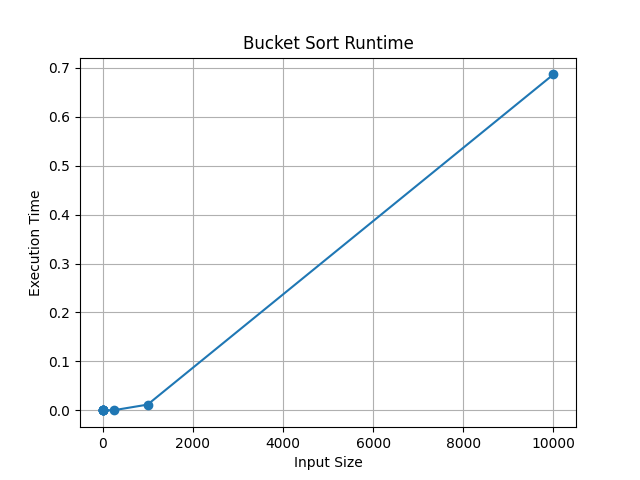
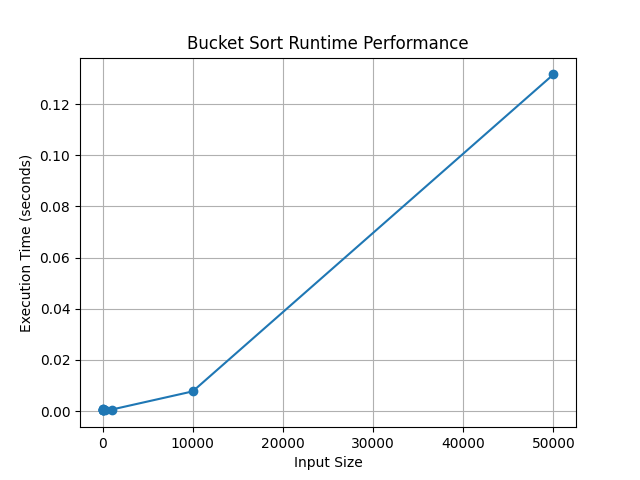
Optimize bucket sort: increase buckets to 1000, reduce test sizes for faster execution, update results and charts

diff --git a/src/experiment_runner.py b/src/experiment_runner.py
@@ -5,7 +5,7 @@ from data.dataset_generator import generate_dataset
 from src.bucket_sort import bucket_sort
 import src.insertion_sort as counter
 
-sizes = [1,2,3,4,5,10,250,999,9999,89786,789300,1780000]
+sizes = [1,2,3,4,5,10,250,999,9999,50000]
 
 def run_experiments():
 

diff --git a/src/bucket_sort.py b/src/bucket_sort.py
@@ -5,7 +5,7 @@ def bucket_sort(arr):
     if len(arr) == 0:
         return arr
 
-    bucket_count = 10
+    bucket_count = 1000
 
     max_val = max(arr)
     min_val = min(arr)
